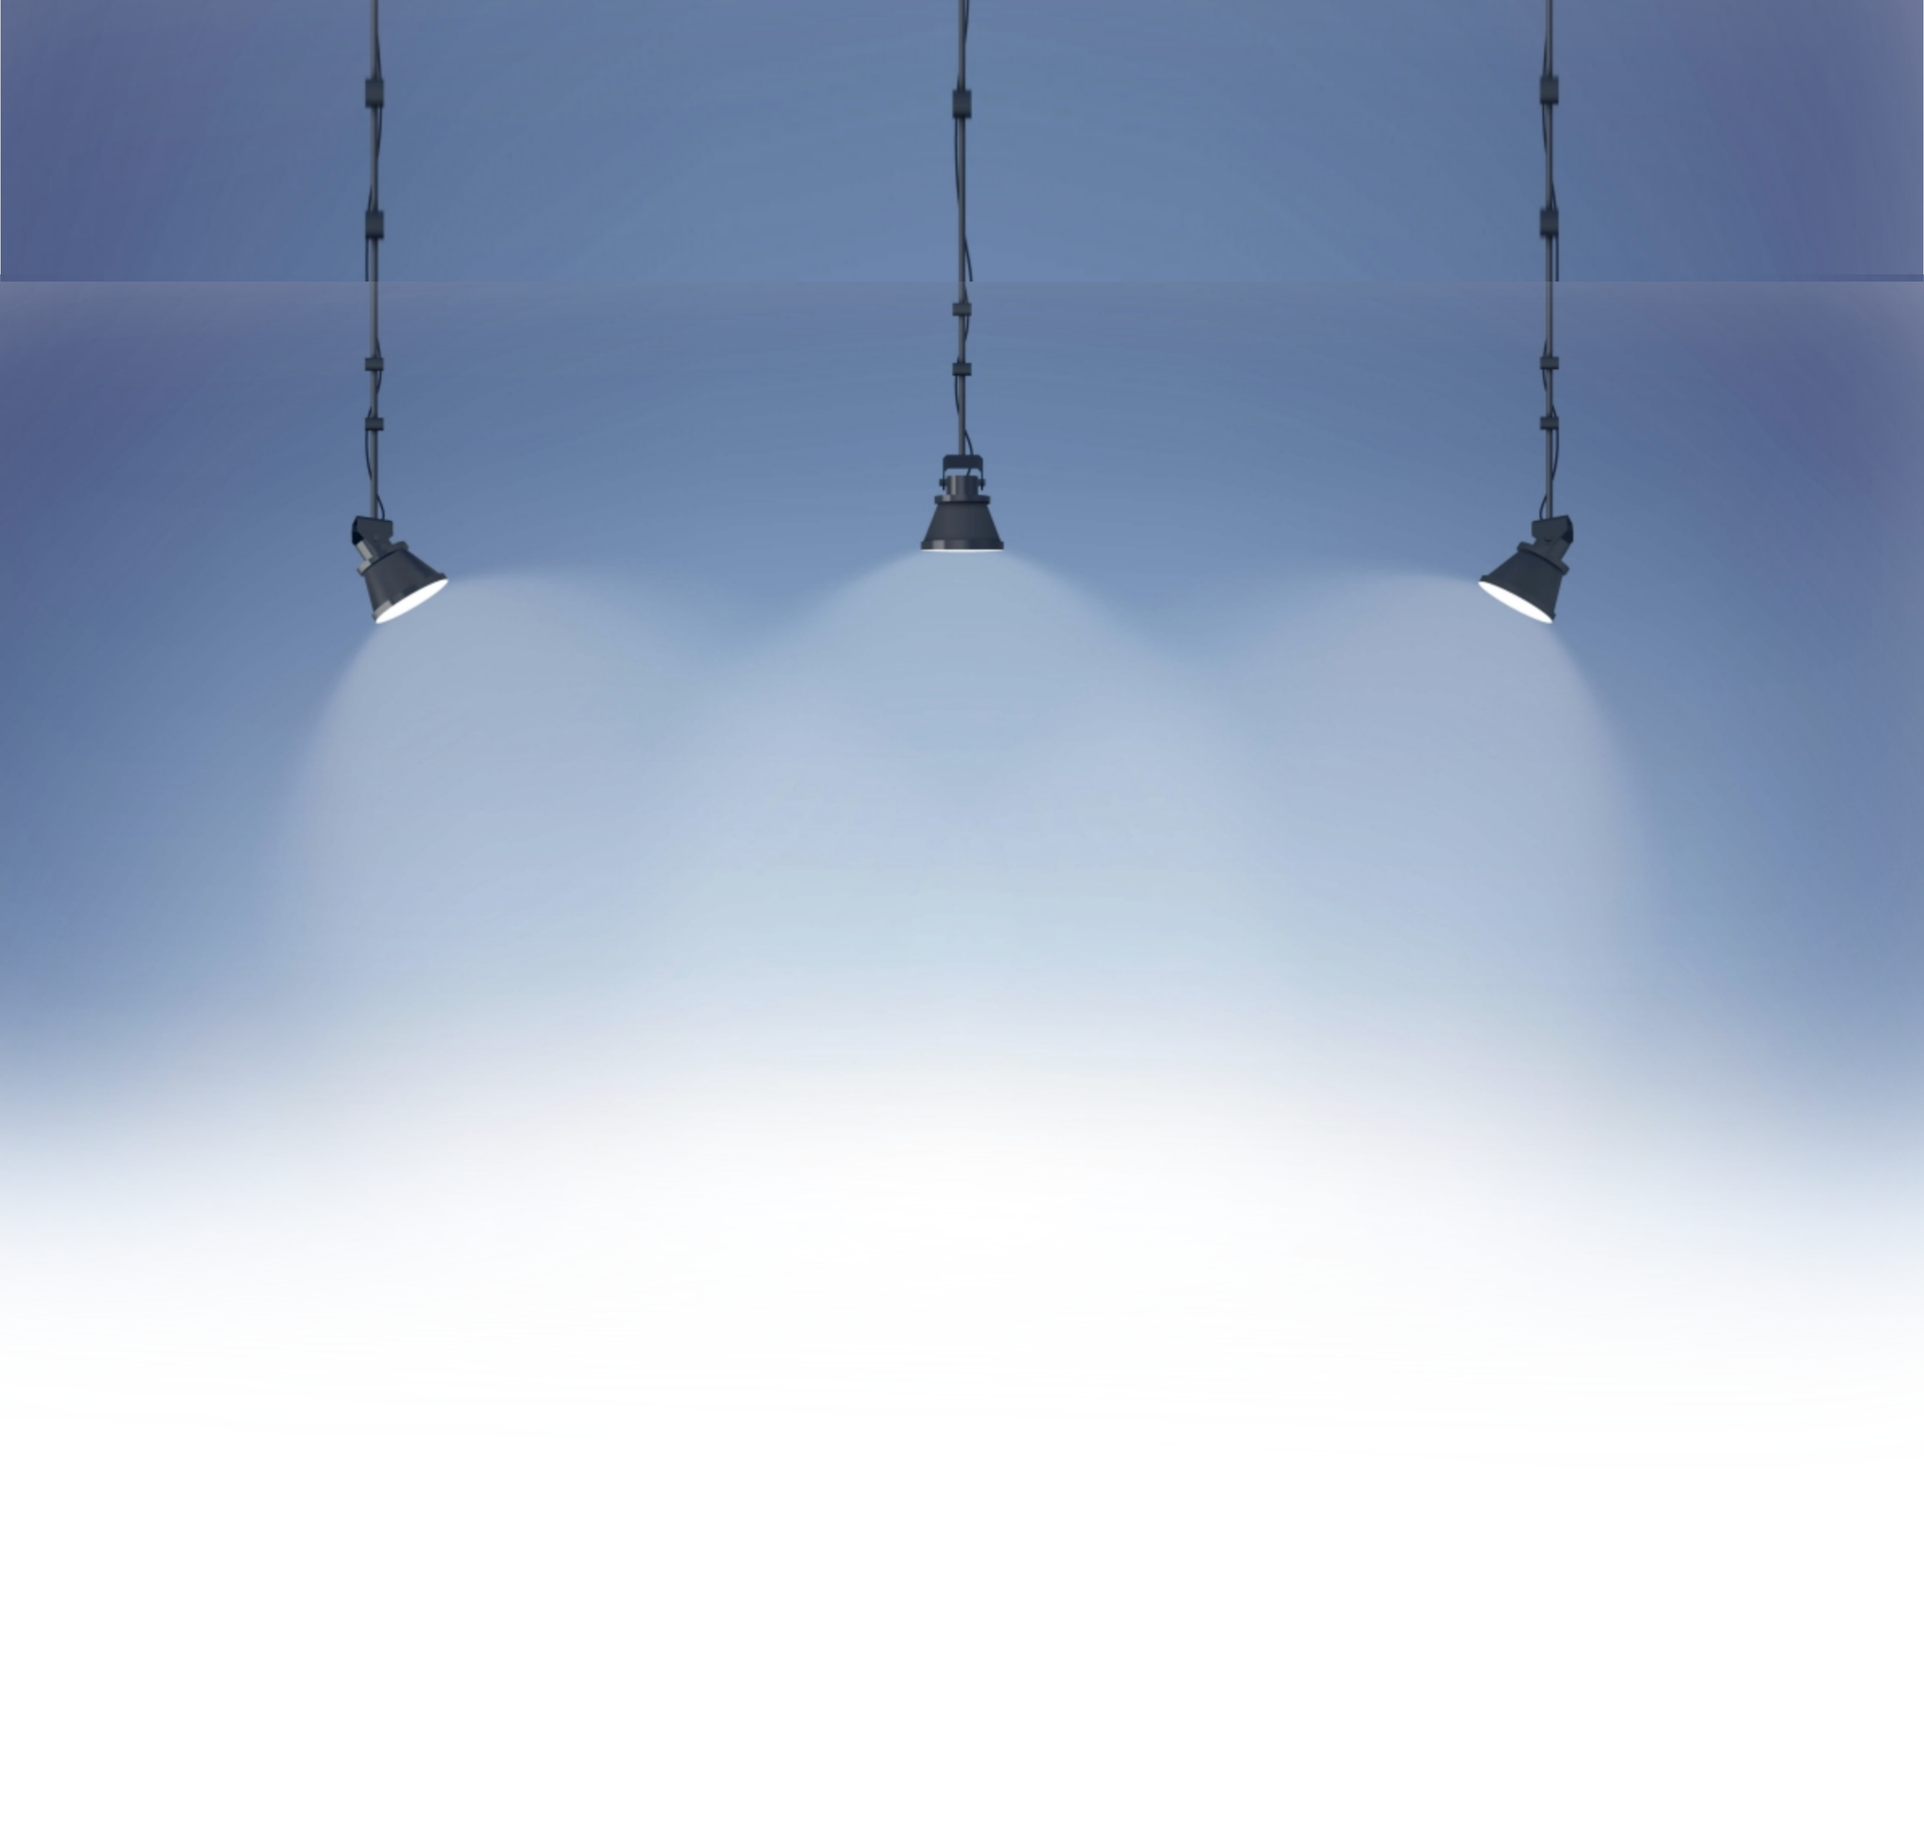
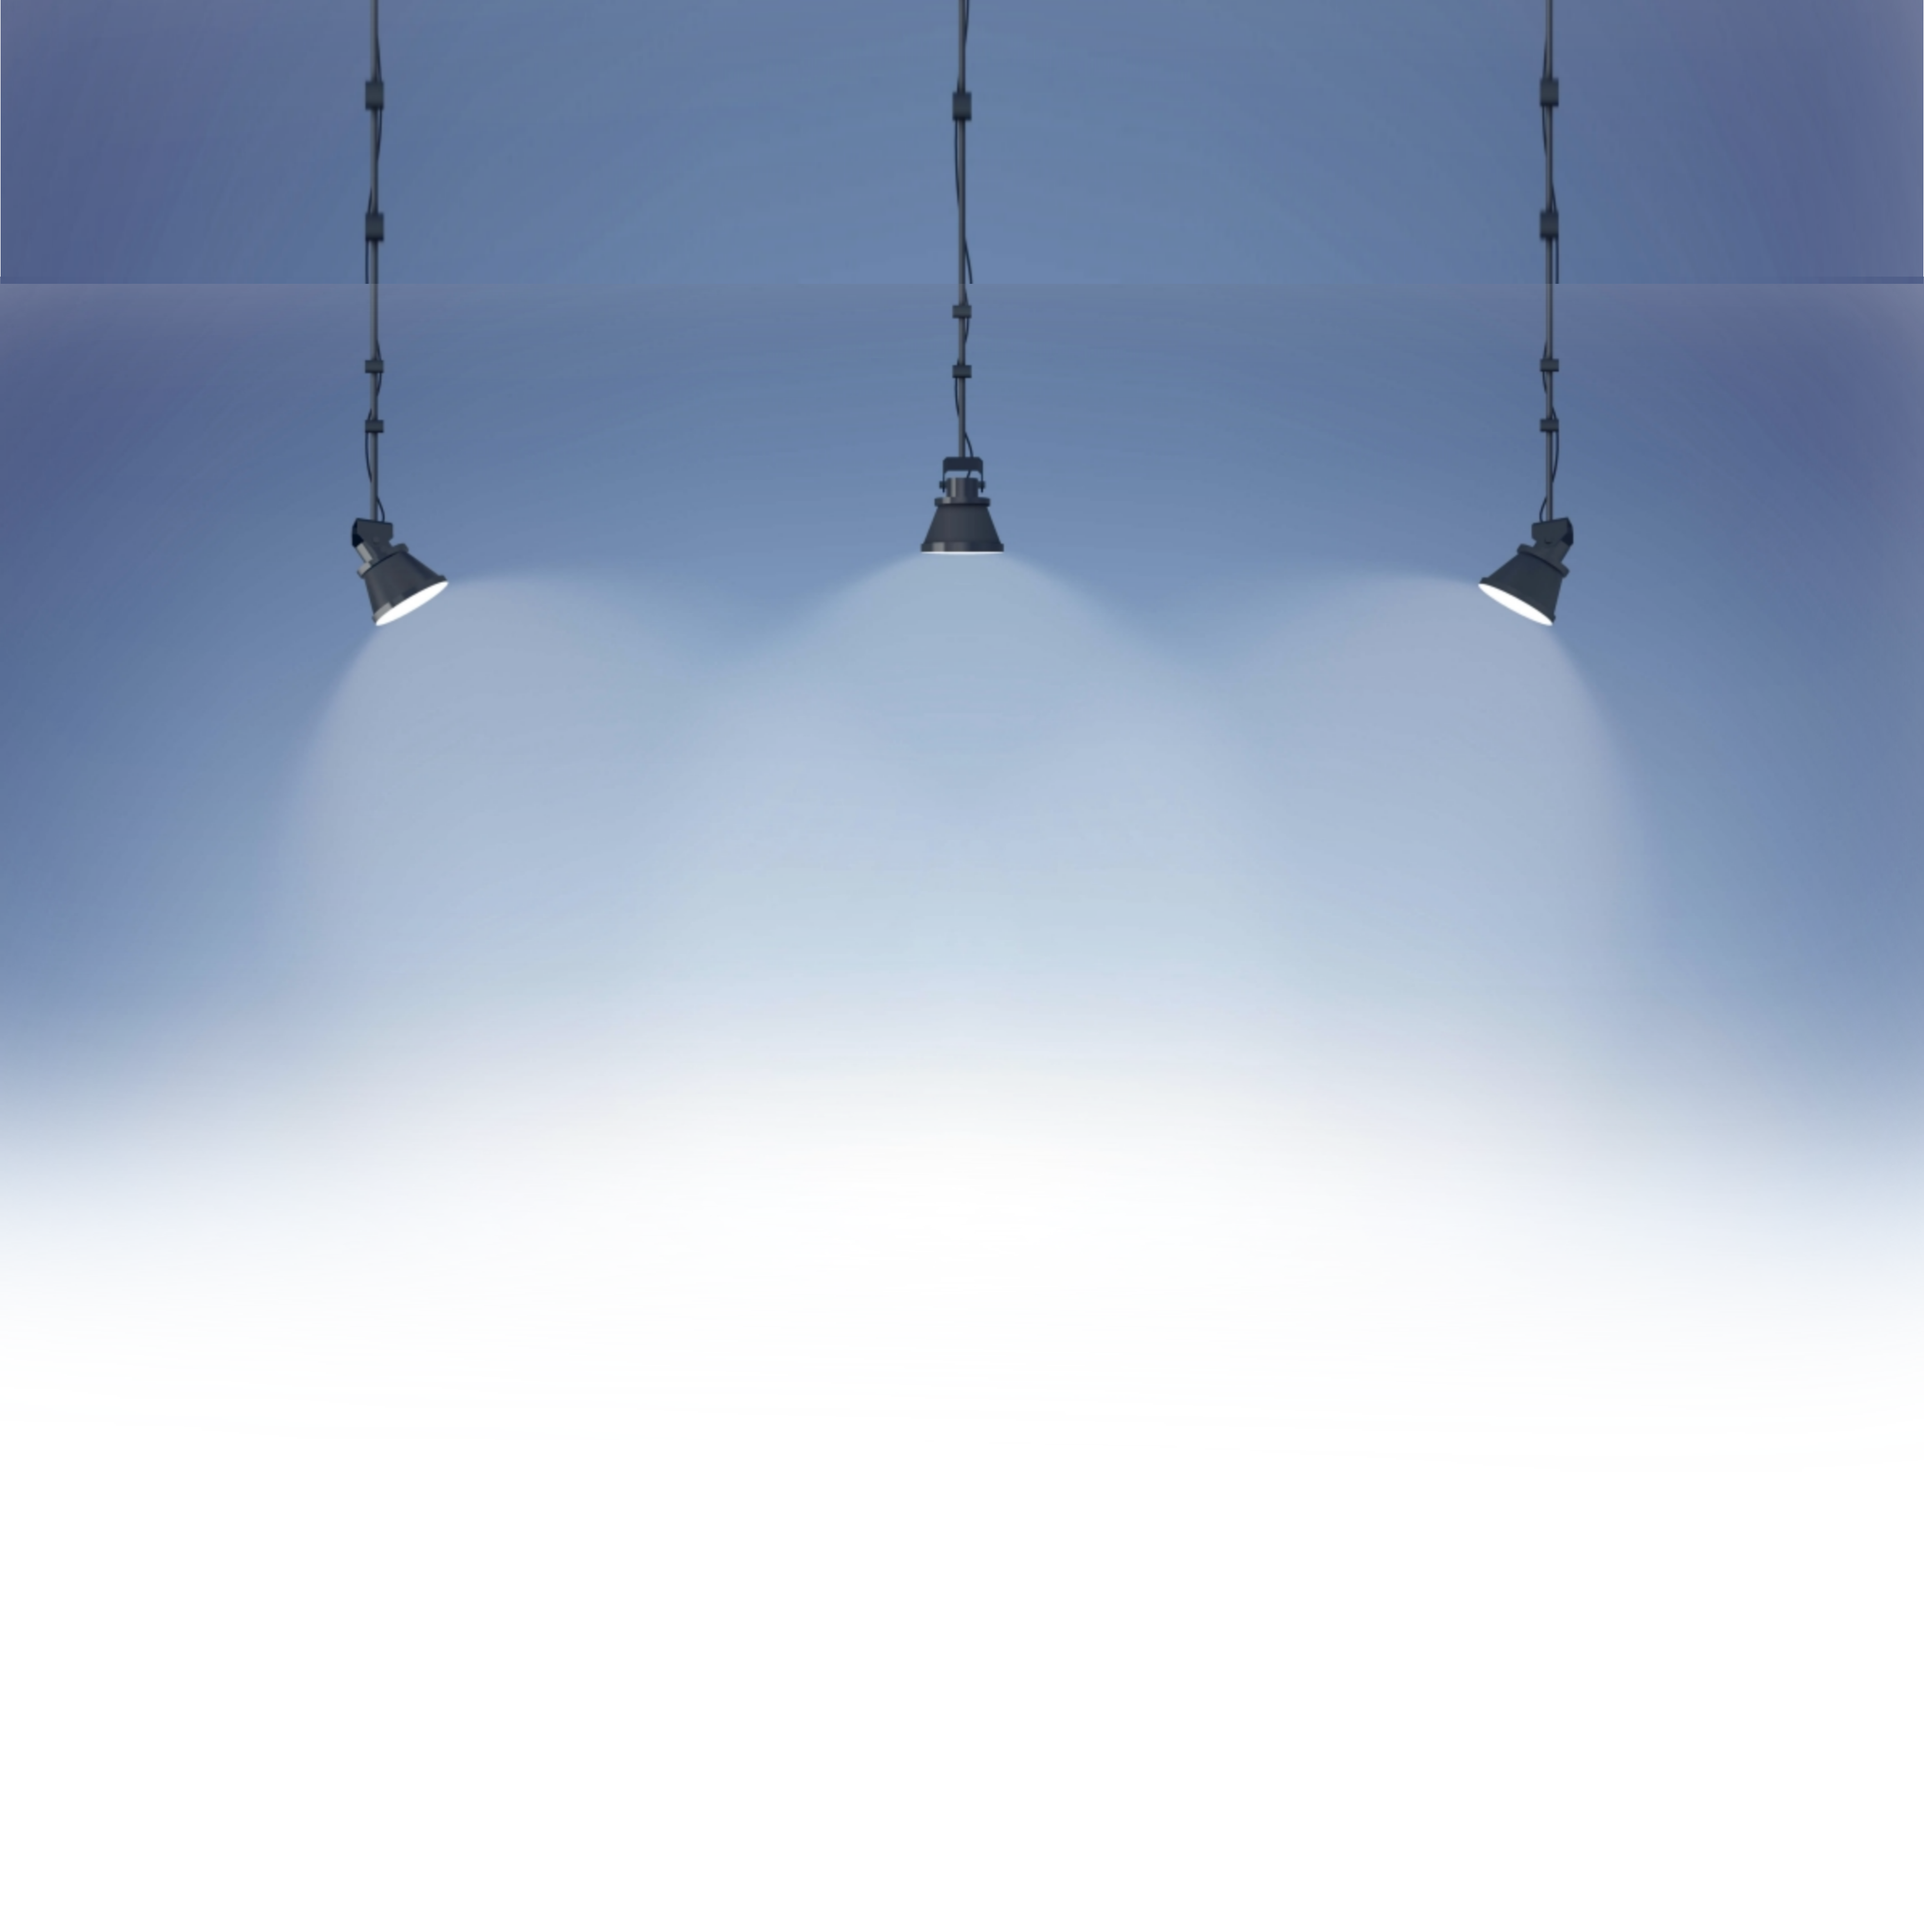
u

diff --git a/style.css b/style.css
@@ -3,12 +3,14 @@
 }
 
 body{
-    background-image: url(imgs/Picsart_23-04-18_11-33-21-104.png);
+    background-image: url(imgs/back3.png);
+
     background-repeat: no-repeat;
     /* background-color: rgb(9, 11, 14); */
     background-size: contain;
     margin-top: 200px;
     padding: 0;
+
 
     /* font-variant: small-caps; */
     letter-spacing: 0.1em;
@@ -26,10 +28,14 @@ body{
     right: 0;
     width: 100%;
     z-index: 999;
+    border-bottom-left-radius: 20px;
+    border-bottom-right-radius: 20px;
     box-shadow: rgba(0, 0, 0, 0.56) 0px 22px 70px 4px;
 }
 .link{
     color: white ;
+    border-radius: 20px;
+
 
 }
 .myname{
@@ -62,8 +68,14 @@ body{
     font-size: 1.2rem;
 }
 .subnav li:hover{
-    background-color: gray;
+    background-color: white;
+    margin-left: 20px;
+    /* color: black; */
+    margin-right: 20px;
     border-radius: 10px;
+}
+.subnav li:hover a{
+    color: #695aa6;
 }
 .linksinprojects li a:hover{
     background-color: white;
@@ -149,7 +161,6 @@ body{
     text-align: justify;
     margin-top: 15px;
 }
-
 .des p{
     font-family:Arial, Helvetica, sans-serif;
     color: gray;
